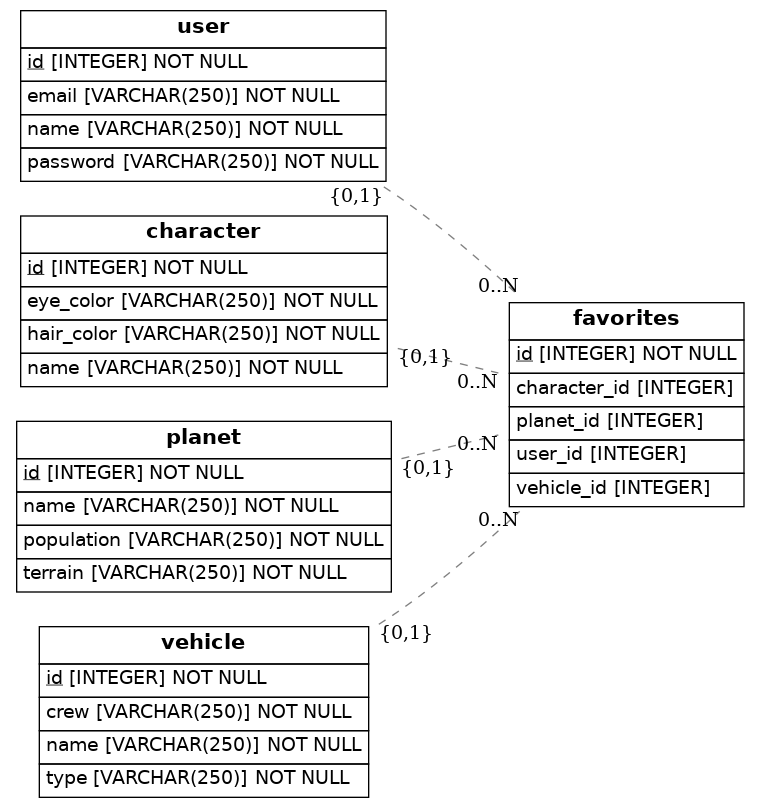
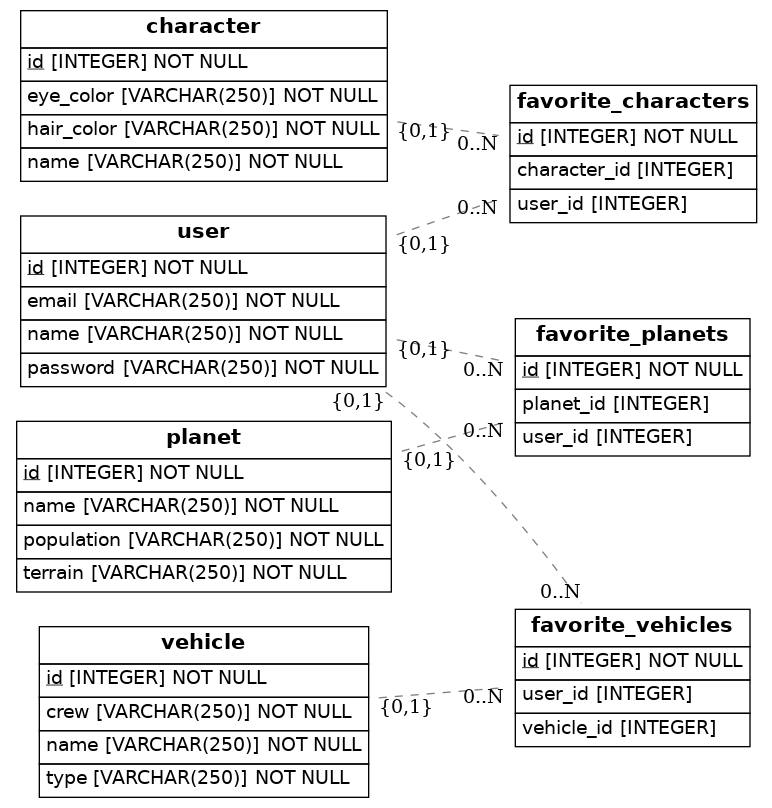
sin campos vacios

diff --git a/src/models.py b/src/models.py
@@ -43,8 +43,8 @@ class Vehicle(Base):
     crew = Column(String(250), nullable=False)
     type = Column(String(250), nullable=False)
 
-class Favorites(Base):
-    __tablename__ = 'favorites'
+class Favorite_Characters(Base):
+    __tablename__ = 'favorite_characters'
     # Here we define columns for the table address.
     # Notice that each column is also a normal Python instance attribute.
     id = Column(Integer, primary_key=True)
@@ -52,8 +52,24 @@ class Favorites(Base):
     user = relationship(User)
     character_id = Column(Integer, ForeignKey('character.id'), nullable=True)
     character = relationship(Character)
+
+class Favorite_Planets(Base):
+    __tablename__ = 'favorite_planets'
+    # Here we define columns for the table address.
+    # Notice that each column is also a normal Python instance attribute.
+    id = Column(Integer, primary_key=True)
+    user_id = Column(Integer, ForeignKey('user.id'))
+    user = relationship(User)
     planet_id = Column(Integer, ForeignKey('planet.id'), nullable=True)
     planet = relationship(Planet)
+
+class Favorite_Vehicles(Base):
+    __tablename__ = 'favorite_vehicles'
+    # Here we define columns for the table address.
+    # Notice that each column is also a normal Python instance attribute.
+    id = Column(Integer, primary_key=True)
+    user_id = Column(Integer, ForeignKey('user.id'))
+    user = relationship(User)
     vehicle_id = Column(Integer, ForeignKey('vehicle.id'), nullable=True)
     vehicle = relationship(Vehicle)
 
